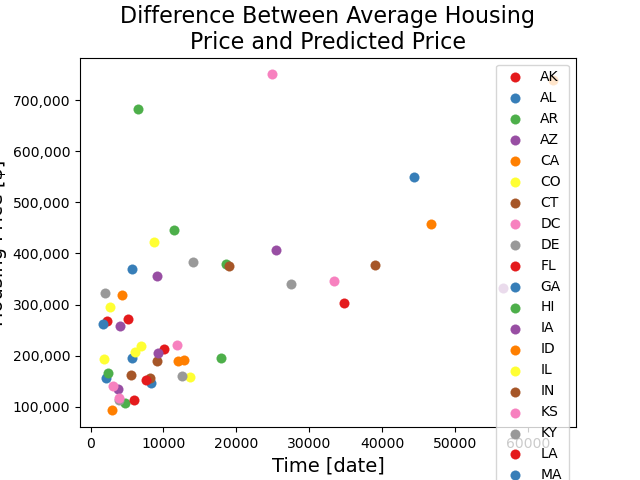
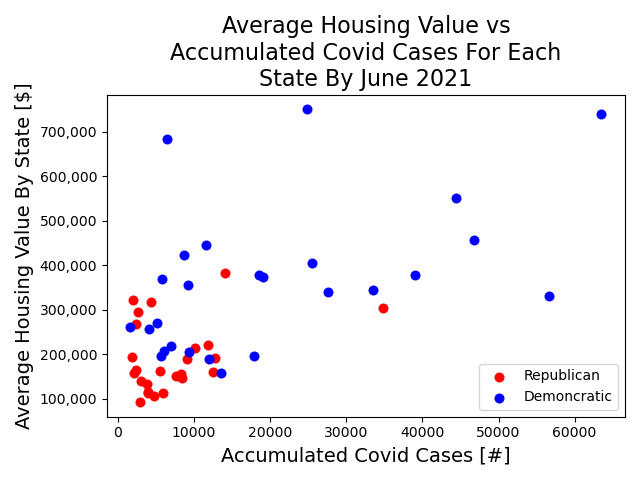
add political state

diff --git a/main.py b/main.py
@@ -6,9 +6,10 @@ import numpy as np
 import datetime as dt
 from textwrap import wrap
 import seaborn as sns
+import warnings
+warnings.filterwarnings('ignore')
 
-
-def covid(df_z,df_p,df_d,df_c,df_r,df_i):
+def covid(df_z,df_p,df_d,df_c,df_r,df_i,df_s,df_pol):
     #pre processing
     df_z.drop(df_z.iloc[:, 0:5], axis = 1, inplace = True)
     df_z.drop(df_z.iloc[:, 1:3], axis=1, inplace=True)
@@ -98,35 +99,58 @@ def covid(df_z,df_p,df_d,df_c,df_r,df_i):
     house_covid = pd.concat([covid_by_state,house_by_state],axis=1)
     house_covid.columns = ["Covid Cases","Housing Value"]
 
-    #color map
-    color_labels = house_covid.index
-    rgb_values = sns.color_palette("Set1", 51)
-    color_map = dict(zip(color_labels, rgb_values))
 
+    #political
+    df_pol["state name"] = df_pol["state name"].str[1:]
+    df_pol_recent = df_pol[["state name", "2020"]]
+    df_pol_recent = df_pol_recent.set_index("state name")
+    df_s = df_s[["State name", "Postal"]]
+    df_s = df_s.set_index("State name")
+    df_pol_s = pd.concat([df_s, df_pol_recent], axis=1)
+    df_pol_s["political status"] = np.where(df_pol_s["2020"]=="Trump","Republican","Demoncratic")
+    df_pol_s = df_pol_s[["Postal","political status"]]
+    df_pol_s  = df_pol_s.set_index("Postal")
+    house_covid_pol = pd.concat([house_covid,df_pol_s],axis=1)
+    house_covid_pol = house_covid_pol.dropna()
 
     fig2, ax2 = plt.subplots()
     ax2.get_yaxis().set_major_formatter(
         matplotlib.ticker.FuncFormatter(lambda x, p: format(int(x), ',')))
-    ax2.set_title("\n".join(wrap("Difference Between Average Housing Price and Predicted Price",35)), fontsize=16)
-    ax2.set_xlabel("Time [date]", fontsize=14)
-    ax2.set_ylabel("\n".join(wrap("Average Housing Price - Predicted Housing Price [$]",35)), fontsize=14)
-    #house_covid.plot.scatter(x="Covid Cases",y="Housing Value", c=house_covid.index.map(color_map),)
-    for i, c in enumerate(rgb_values):
-        x = house_covid["Covid Cases"][i]
-        y = house_covid["Housing Value"][i]
-        l = house_covid.index[i]
+    ax2.set_title("\n".join(wrap("Average Housing Value vs Accumulated Covid Cases For Each State By June 2021",35)), fontsize=16)
+    ax2.set_xlabel("Accumulated Covid Cases [#]", fontsize=14)
+    ax2.set_ylabel("Average Housing Value By State [$]", fontsize=14)
+    #no label
+    #house_covid_pol.plot.scatter(x="Covid Cases", y="Housing Value", s=50, linewidth=0.1)
+    #label method1
+    # color_labels = house_covid.index
+    # rgb_values = sns.color_palette("Set1", 51)
+    # color_map = dict(zip(color_labels, rgb_values))
 
-        ax2.scatter(x, y, label=l, s=50, linewidth=0.1, c=c)
+    #house_covid.plot.scatter(x="Covid Cases",y="Housing Value",s=50, linewidth=0.1, c=house_covid.index.map(color_map))
+    #leable method 2
+    # for i, c in enumerate(rgb_values):
+    #     x = house_covid["Covid Cases"][i]
+    #     y = house_covid["Housing Value"][i]
+    #     l = house_covid.index[i]
+    #
+    #     ax2.scatter(x, y,label = l,s=50, linewidth=0.1, c=c)
+    #label 3
+    political = house_covid_pol["political status"].unique()
+    cs = ["r","b"]
+    for i,p in enumerate(political):
+        data = house_covid_pol[house_covid_pol["political status"]==p]
+        ax2.scatter(x=data["Covid Cases"],y=data["Housing Value"],label=p, s=50, linewidth=0.1,c=cs[i])
+
 
     ax2.legend()
     plt.tight_layout()
     plt.savefig("image2.png")
     plt.show()
 
-
-    df_p.drop(df_p.iloc[:, 0:1], axis = 1, inplace = True)
-    df_p = df_p[df_p["population"]>0]
-    df_p_mean = df_p.groupby("State").mean()
+    #population
+    # df_p.drop(df_p.iloc[:, 0:1], axis = 1, inplace = True)
+    # df_p = df_p[df_p["population"]>0]
+    # df_p_mean = df_p.groupby("State").mean()
 
 
 
@@ -168,6 +192,8 @@ if __name__ == '__main__':
         df_c = pd.read_csv("covid_confirmed_usafacts.csv")
         df_r = pd.read_excel("FEDFUNDS.xls")
         df_i = pd.read_csv("Metro_invt_fs_uc_sfrcondo_sm_week.csv")
+        df_s = pd.read_csv("state name.csv")
+        df_pol = pd.read_csv("political status.csv")
     else:
         df_z = pd.read_csv("zillow_example.csv")
         df_p = pd.read_csv("pop_example.csv")
@@ -175,7 +201,9 @@ if __name__ == '__main__':
         df_d = pd.read_csv("death_example.csv")
         df_r = pd.read_excel("FEDFUNDS.xls")
         df_i = pd.read_csv("Metro_invt_fs_uc_sfrcondo_sm_week.csv")
+        df_s = pd.read_csv("state name.csv")
+        df_pol = pd.read_csv("political status.csv")
 
 
-    covid(df_z,df_p,df_d,df_c,df_r,df_i)
+    covid(df_z,df_p,df_d,df_c,df_r,df_i,df_s,df_pol)
 
